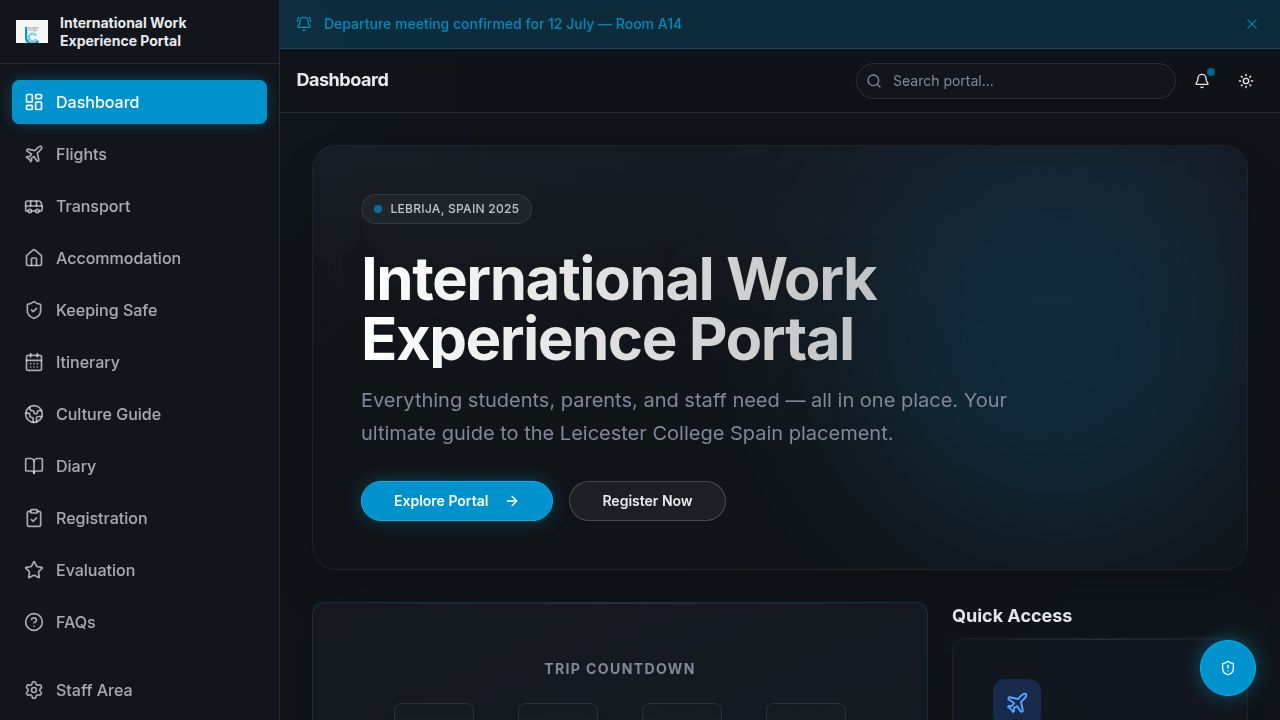
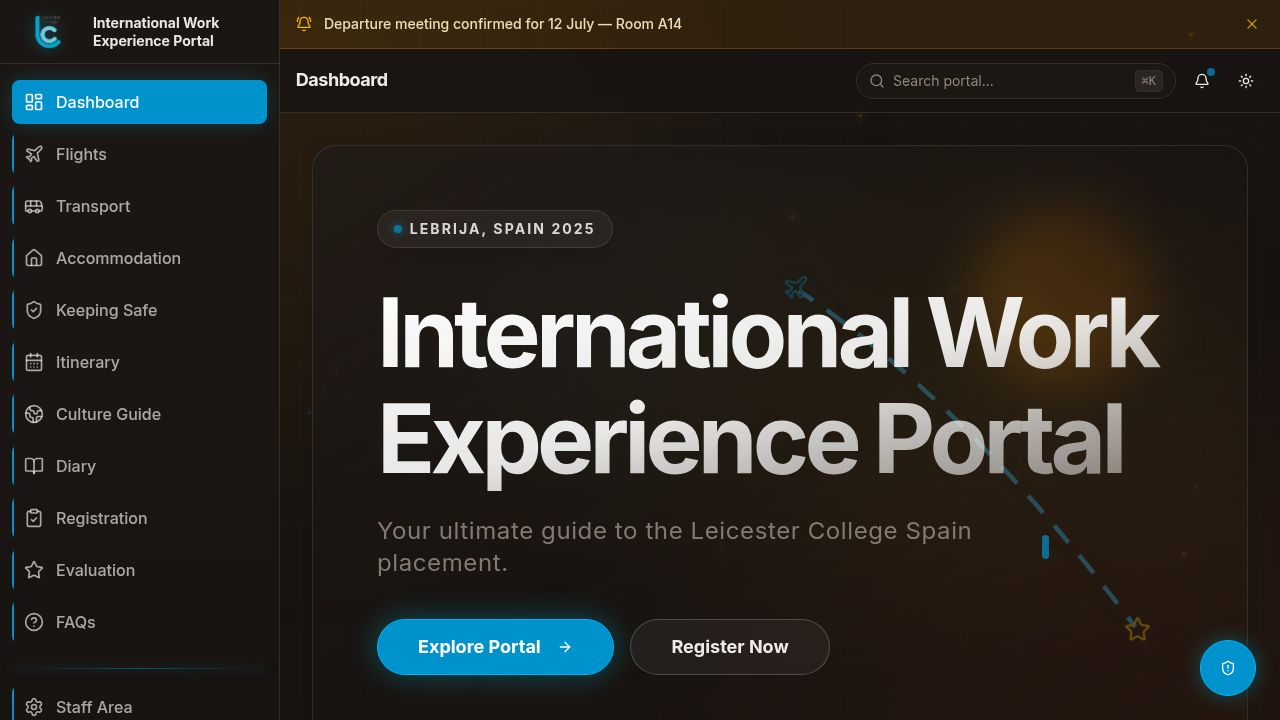
Updates

diff --git a/index.html b/index.html
@@ -16,8 +16,8 @@
     <link rel="preconnect" href="https://fonts.googleapis.com">
     <link rel="preconnect" href="https://fonts.gstatic.com" crossorigin>
     <link href="https://fonts.googleapis.com/css2?family=Inter:wght@400;500;600;700&display=swap" rel="stylesheet">
-    <script type="module" crossorigin src="/leicestercollege-spain-portal/assets/index-CDC77eLs.js"></script>
-    <link rel="stylesheet" crossorigin href="/leicestercollege-spain-portal/assets/index-Bf3IKhin.css">
+    <script type="module" crossorigin src="/leicestercollege-spain-portal/assets/index-SE5HmeG5.js"></script>
+    <link rel="stylesheet" crossorigin href="/leicestercollege-spain-portal/assets/index-8OussnTr.css">
   </head>
   <body>
     <div id="root"></div>